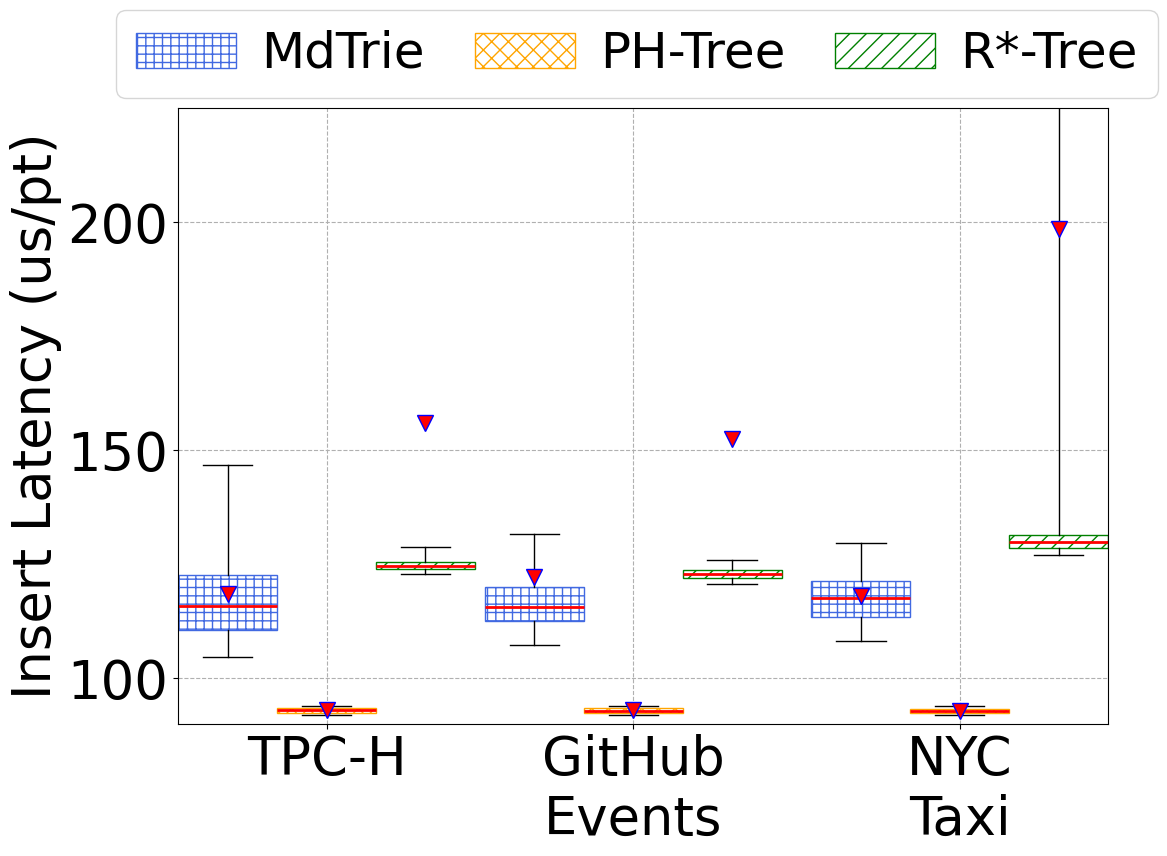
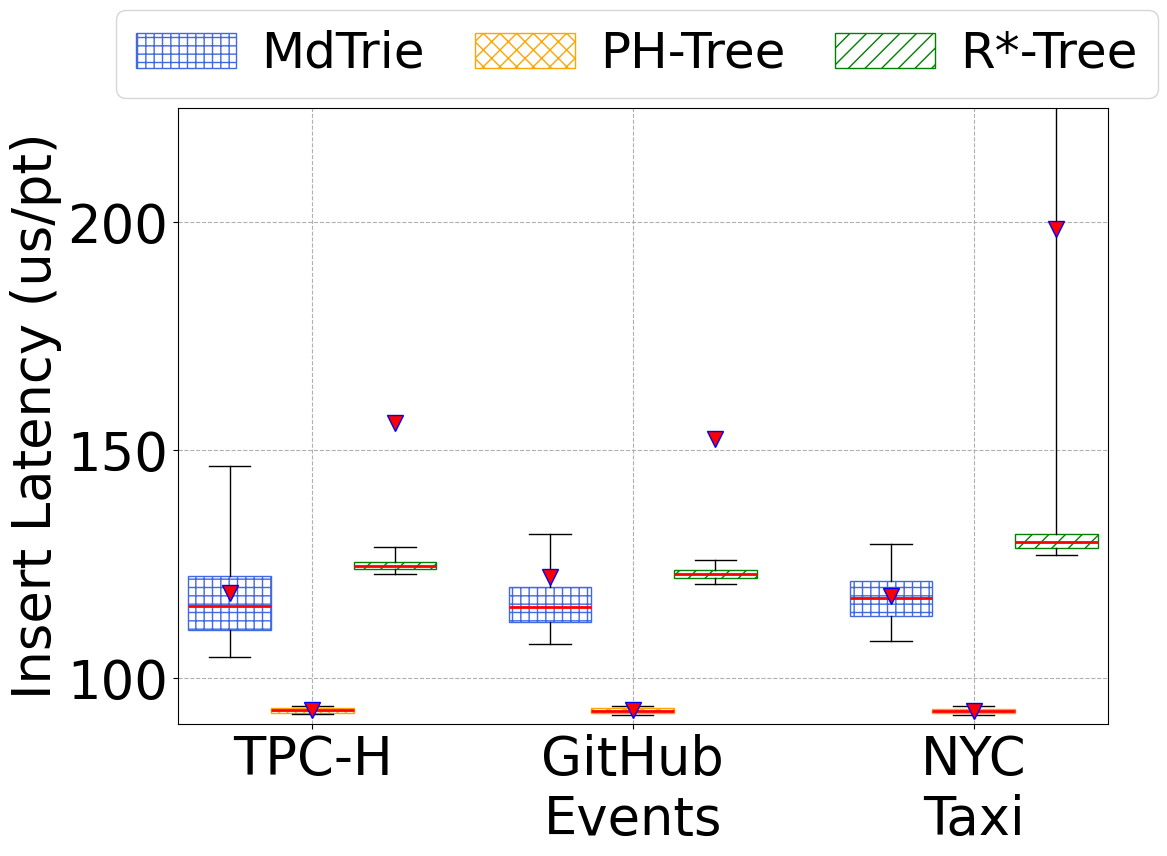
updated graphs for microbench

diff --git a/plots/pyutils/plot_functions.py b/plots/pyutils/plot_functions.py
@@ -179,8 +179,8 @@ def plot_micro_box(value_list_list:List, name_list:List, figname:str, workload:s
                   linestyle='none', markeredgecolor='b')    
 
     left_positions = [-0.4,  2.2 + 0.5,  5+ 1]
-    middle_positions = [0.6, 3.2+ 0.5, 6+ 1]
-    right_positions = [1.6, 4.2+ 0.5, 7+ 1]
+    middle_positions = [0.4, 3+ 0.5, 5.8+ 1]
+    right_positions = [1.2, 3.8+ 0.5, 6.6+ 1]
     combined_positions = middle_positions
     # for i in range(len(left_positions)):
     #     combined_positions.append(left_positions[i])
@@ -190,9 +190,9 @@ def plot_micro_box(value_list_list:List, name_list:List, figname:str, workload:s
     medianprops = {"linewidth": 2, "solid_capstyle": "butt", "color": "red"}
 
     fig, ax = plt.subplots()
-    bp1 = ax.boxplot(value_list_list[1:10:3], whis=(5, 95), showfliers=False, showmeans=True, meanprops=meanprops, patch_artist=True,positions=left_positions, boxprops=dict(facecolor="white"), medianprops=medianprops, widths=1)
-    bp2 = ax.boxplot(value_list_list[2:10:3], whis=(5, 95), showfliers=False, showmeans=True, meanprops=meanprops, patch_artist=True,positions=middle_positions, boxprops=dict(facecolor="white"), medianprops=medianprops, widths=1)
-    bp3 = ax.boxplot(value_list_list[3:10:3], whis=(5, 95), showfliers=False, showmeans=True, meanprops=meanprops, patch_artist=True,positions=right_positions, boxprops=dict(facecolor="white"), medianprops=medianprops, widths=1)
+    bp1 = ax.boxplot(value_list_list[1:10:3], whis=(5, 95), showfliers=False, showmeans=True, meanprops=meanprops, patch_artist=True,positions=left_positions, boxprops=dict(facecolor="white"), medianprops=medianprops, widths=0.8)
+    bp2 = ax.boxplot(value_list_list[2:10:3], whis=(5, 95), showfliers=False, showmeans=True, meanprops=meanprops, patch_artist=True,positions=middle_positions, boxprops=dict(facecolor="white"), medianprops=medianprops, widths=0.8)
+    bp3 = ax.boxplot(value_list_list[3:10:3], whis=(5, 95), showfliers=False, showmeans=True, meanprops=meanprops, patch_artist=True,positions=right_positions, boxprops=dict(facecolor="white"), medianprops=medianprops, widths=0.8)
     
     plt.xticks(combined_positions, ["TPC-H", "GitHub\nEvents", "NYC\nTaxi"])
 
@@ -258,13 +258,13 @@ def plot_optimization_box(value_list_list:List, name_list:List, figname:str, wor
     meanprops = dict(marker='v', markerfacecolor='r', markersize=12,
                   linestyle='none', markeredgecolor='b')    
 
-    left_positions = [-0.4,  2.4,  5.2]
-    middle_positions = [0.2, 3.0, 5.8]
-    right_positions = [0.8, 3.6, 6.4]
+    left_positions = [-0.4,  2 + 0.2,  4.5]
+    middle_positions = [0.1, 2.5 + 0.2, 5]
+    right_positions = [0.6, 3 + 0.2, 5.5]
     # second_right_positions = [1.4, 4.2, 7.0]
-    second_right_positions = [1.4, 7.0]
+    second_right_positions = [1.1, 3.5 + 0.2, 6]
 
-    combined_positions = [0.5, 3.3, 6.1]
+    combined_positions = [0.6 - 0.25, 3.2 - 0.25, 5.5 - 0.25]
     # for i in range(len(left_positions)):
     #     combined_positions.append(left_positions[i])
     #     combined_positions.append(middle_positions[i])
@@ -273,10 +273,10 @@ def plot_optimization_box(value_list_list:List, name_list:List, figname:str, wor
     medianprops = {"linewidth": 2, "solid_capstyle": "butt", "color": "red"}
 
     fig, ax = plt.subplots()
-    bp1 = ax.boxplot(value_list_list[1:13:4], whis=(5, 95), showfliers=False, showmeans=True, meanprops=meanprops, patch_artist=True,positions=left_positions, boxprops=dict(facecolor="white"), medianprops=medianprops, widths=0.7)
-    bp2 = ax.boxplot(value_list_list[2:13:4], whis=(5, 95), showfliers=False, showmeans=True, meanprops=meanprops, patch_artist=True,positions=middle_positions, boxprops=dict(facecolor="white"), medianprops=medianprops, widths=0.7)
-    bp3 = ax.boxplot(value_list_list[3:13:4], whis=(5, 95), showfliers=False, showmeans=True, meanprops=meanprops, patch_artist=True,positions=right_positions, boxprops=dict(facecolor="white"), medianprops=medianprops, widths=0.7)
-    bp4 = ax.boxplot(value_list_list[4:13:8], whis=(5, 95), showfliers=False, showmeans=True, meanprops=meanprops, patch_artist=True,positions=second_right_positions, boxprops=dict(facecolor="white"), medianprops=medianprops, widths=0.7)
+    bp1 = ax.boxplot(value_list_list[1:13:4], whis=(5, 95), showfliers=False, showmeans=True, meanprops=meanprops, patch_artist=True,positions=left_positions, boxprops=dict(facecolor="white"), medianprops=medianprops, widths=0.5)
+    bp2 = ax.boxplot(value_list_list[2:13:4], whis=(5, 95), showfliers=False, showmeans=True, meanprops=meanprops, patch_artist=True,positions=middle_positions, boxprops=dict(facecolor="white"), medianprops=medianprops, widths=0.5)
+    bp3 = ax.boxplot(value_list_list[3:13:4], whis=(5, 95), showfliers=False, showmeans=True, meanprops=meanprops, patch_artist=True,positions=right_positions, boxprops=dict(facecolor="white"), medianprops=medianprops, widths=0.5)
+    bp4 = ax.boxplot(value_list_list[4:13:4], whis=(5, 95), showfliers=False, showmeans=True, meanprops=meanprops, patch_artist=True,positions=second_right_positions, boxprops=dict(facecolor="white"), medianprops=medianprops, widths=0.5)
 
     plt.xticks(combined_positions, ["TPC-H", "GitHub\nEvents", "NYC\nTaxi"])
 

diff --git a/plots/plot/plot_sensitivity_optimization.py b/plots/plot/plot_sensitivity_optimization.py
@@ -24,8 +24,7 @@ if __name__ == "__main__":
         "+SM": "SM"
     }
 
-    # for workload in ["query", "storage", "insert", "lookup"]:
-    for workload in ["storage"]:
+    for workload in ["query", "storage", "insert", "lookup"]:
         name_list = []
         value_list_list = []
 
